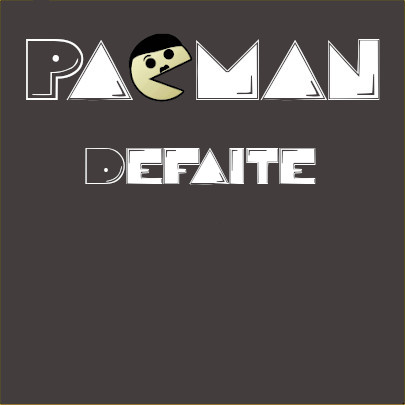
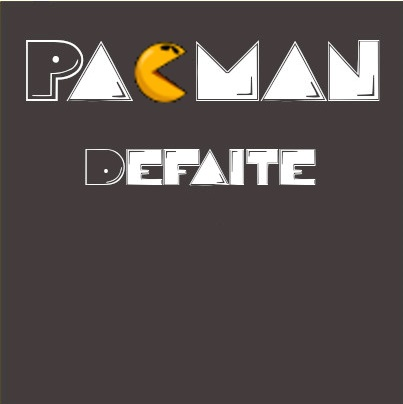
img

diff --git a/src/Modele/Entite/PacMan.java b/src/Modele/Entite/PacMan.java
@@ -21,21 +21,13 @@ import java.util.List;
  * @author Epulapp
  */
 public class PacMan extends Entite {
-    private Image imPacman = new Image(Configuration.PATH_TO_IMG + "Pacman.png");
+    private Image imPacman = new Image(Configuration.PATH_TO_IMG + "/Sprite/TestAnim/pm1.png");
 
     private boolean animation = false;
     public List<Image> images = new ArrayList<>();
 
     public Image getImPacman() {
         synchronized(this){
-            
-//            System.out.println("changement pacman");
-            animation = !animation;
-//            if (animation) {
-//                imPacman = new Image(Configuration.PATH_TO_IMG + "Pacman.png");
-//            }else{
-//                imPacman = new Image(Configuration.PATH_TO_IMG + "PacmanFerme.png");
-//            }
             return imPacman;
         }
     }
@@ -49,12 +41,6 @@ public class PacMan extends Entite {
                         Thread.sleep(100);
                     } catch (InterruptedException ex) {
                         Logger.getLogger(PacMan.class.getName()).log(Level.SEVERE, null, ex);
-                    }
-                    animation = !animation;
-                    if (animation) {
-                        imPacman = new Image(Configuration.PATH_TO_IMG + "Pacman.png");
-                    }else{
-                        imPacman = new Image(Configuration.PATH_TO_IMG + "PacmanFerme.png");
                     }
                 }
             }
